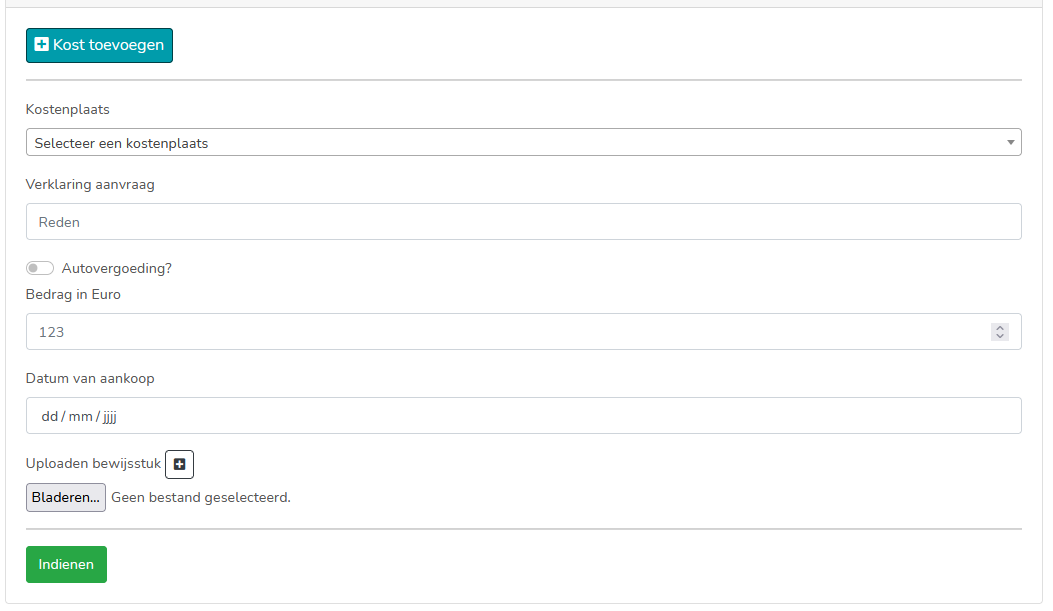
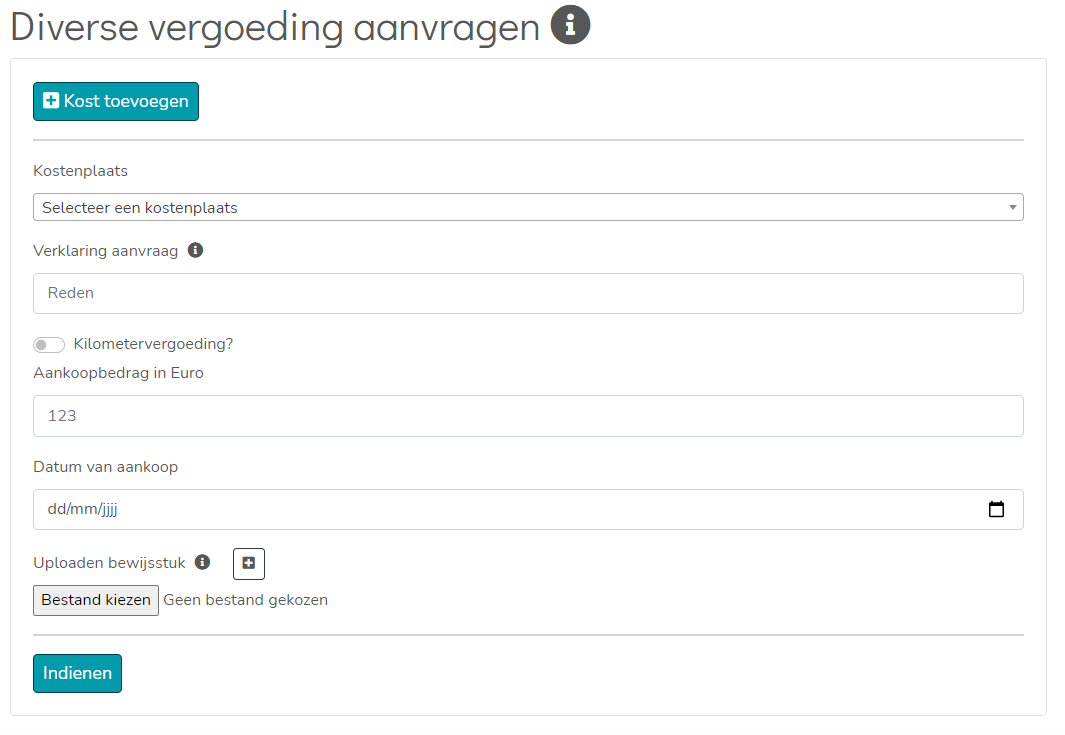
opmaak fix diverse vergoeding & helppagina

diff --git a/resources/views/user/diverse.blade.php b/resources/views/user/diverse.blade.php
@@ -86,7 +86,7 @@
                                     </div>
                                     <hr>
                                 </div></div>
-                            <button class="btn btn-success" id="btndienin" type="submit">Indienen</button>
+                            <button class="btn btn-primary" id="btndienin" type="submit">Indienen</button>
                         </form>
                     </div>
                 </div>
